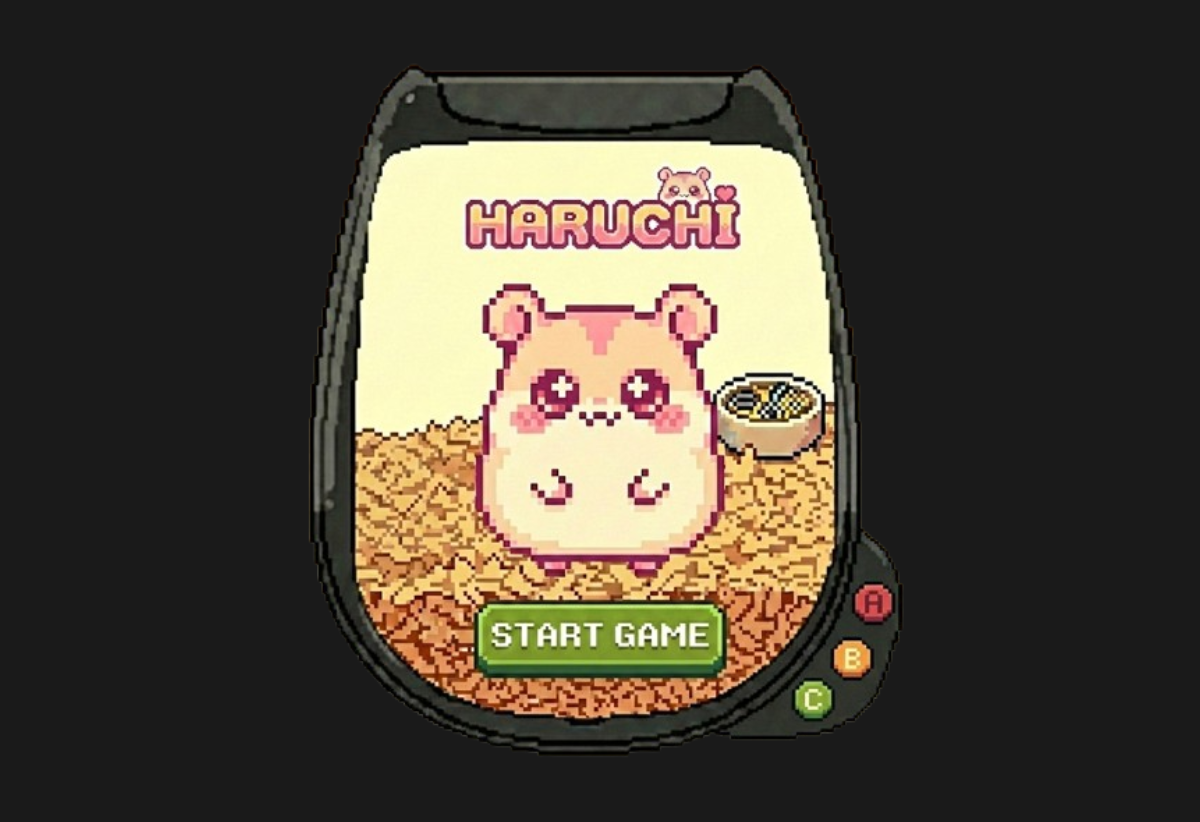
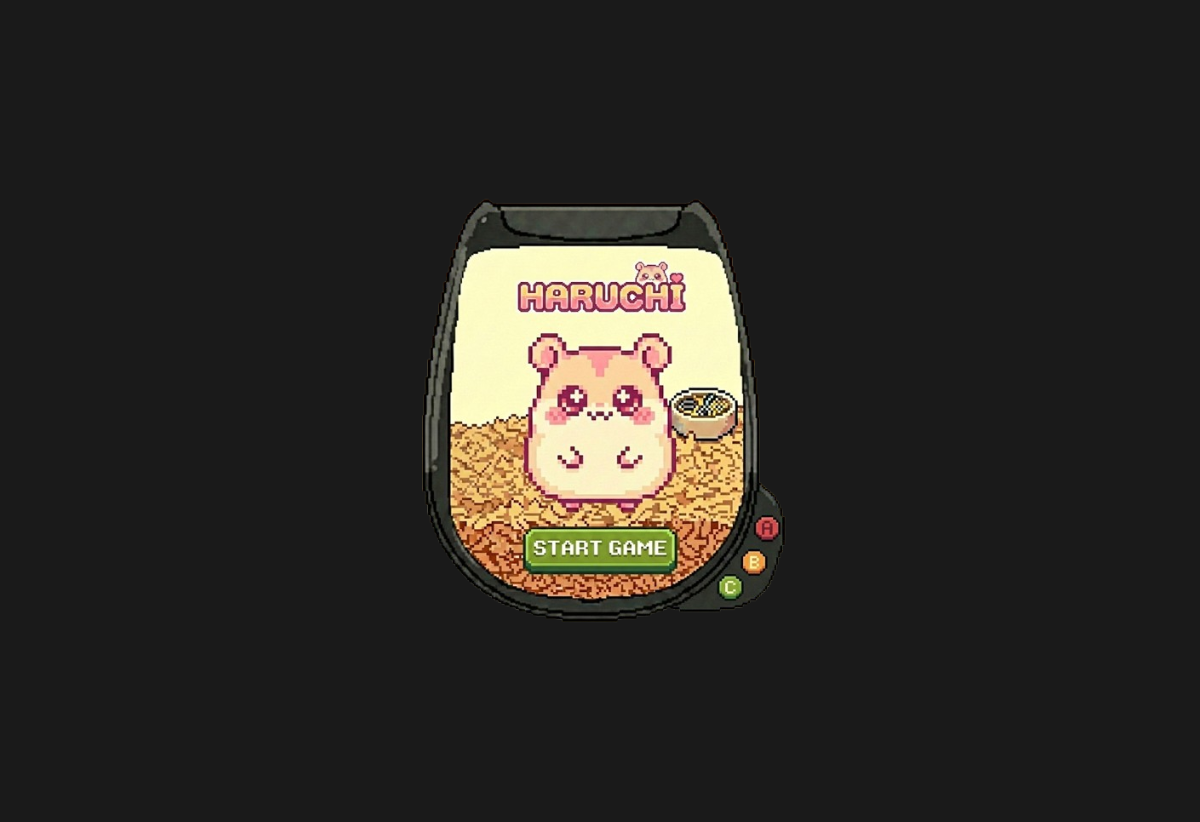
9

Changed region(s): [[0.2467, 0.0608, 0.7708, 0.9124]]

diff --git a/tama/thumbnail_resize.html b/tama/thumbnail_resize.html
@@ -19,7 +19,7 @@
 </head>
 <body>
   <h1>OG 썸네일 생성기</h1>
-  <p>카톡 미리보기 비율(1.46:1)에 맞춰 1200×822로 생성 → 늘어남·잘림 방지</p>
+  <p>카톡 잘림 방지: 1200×822 + 내용 60% 크기로 축소 (전체가 보이도록)</p>
   <div class="btn-row">
     <div>
       <div class="step">1단계</div>
@@ -36,7 +36,7 @@
 
   <script>
     const TARGET_W = 1200, TARGET_H = 822;  // 카톡 미리보기 비율 1.46:1
-    const PADDING = 0.9;  // 90% 안에 내용 (여백 확보)
+    const PADDING = 0.55;  // 55% 안에 내용 배치 → 크기 축소로 잘림 방지
     let hasImage = false;
 
     function draw(img) {
